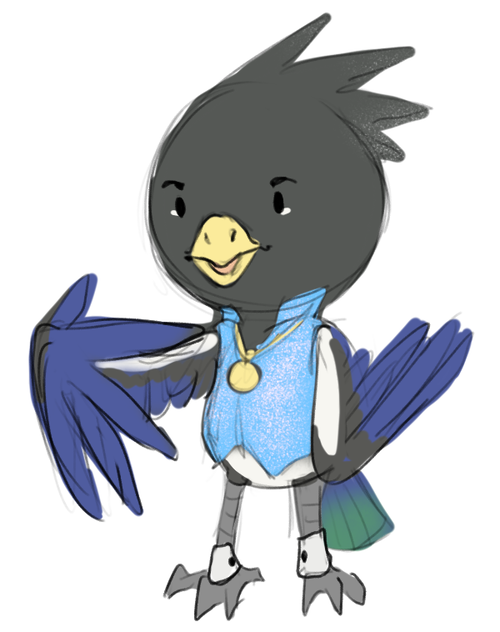
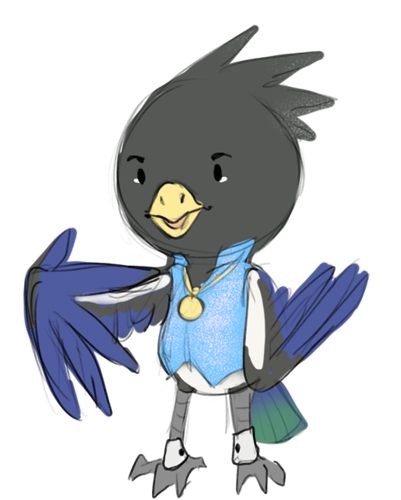
Fixed image scaling in stats/inn. Changed village

Changed region(s): [[0.0599, 0.0, 0.9576, 1.0]]

diff --git a/navigation_gl.py b/navigation_gl.py
@@ -34,6 +34,7 @@ class MainGame():
         self.color_active = "RED"
         self.clock = pygame.time.Clock()
         pygame.mixer.init()
+        self.boosted = 0
 
     def start_screen(self):
         #### SETUP ####
@@ -447,30 +448,39 @@ class MainGame():
             # Boost Party   || Save
             #               || Venture Out
         elif self.progress == 2:
-            options = ["Inn", "Smithy", "inn", "blacksmith", "Boost Party", "Save", "party_debug", "save", "Venture Out", "leave",]
+            options = ["Inn", "Smithy", "inn", "blacksmith", "Haberdashery", "Save", "haberdashery", "save", "Venture Out", "leave",]
             choice = self.town_options(options)
             # Add all current characters and then boost them to 9999
             if choice == "party_debug":
-                # give party of MC, Bear, Radish, Grapefart, lvl9999
-                self.party = boost_party()
-                # add chars to rom list and name list
-                self.rom_characters[2] = self.party[2]
-                self.rom_characters[3] = self.party[3]
-                self.character_names[2] = "Radish"
-                self.character_names[3] = "Grapefart"
+                if self.boosted == 1:
+                    self.user_text = [[[None, "Party has already been boosted."], [None, "[Returning to town.]"]]]
+                    self.advance = 0
+                else:
+                    # give party of MC, Bear, Radish, Grapefart, lvl9999
+                    self.party = boost_party()
+                    # add chars to rom list and name list
+                    self.rom_characters[2] = self.party[2]
+                    self.rom_characters[3] = self.party[3]
+                    self.character_names[2] = "Radish"
+                    self.character_names[3] = "Grapefart"
 
-                # generate 2 npc characters, add to npc and name lists
-                self.npc_characters[2] = add_char("dane")
-                self.npc_characters[3] = add_char("rayna")
-                self.npc_names[2] = "Dane"
-                self.npc_names[3] = "Rayna"
-                
-                # return confirm text
-                self.user_text = [[[None, "Added party members."], [None, "[Returning to town.]"]]]
-                self.advance = 0
+                    # generate 2 npc characters, add to npc and name lists
+                    self.npc_characters[2] = add_char("dane")
+                    self.npc_characters[3] = add_char("rayna")
+                    self.npc_names[2] = "Dane"
+                    self.npc_names[3] = "Rayna"
+                    
+                    # return confirm text
+                    self.user_text = [[[None, "Added party members."], [None, "[Returning to town.]"]]]
+                    self.advance = 0
+                    self.boosted = 1
             # No blacksmith to run yet
             if choice == "blacksmith":
                 self.user_text = [[[None, "There is no one to run the blacksmith, so it remains closed."], [None, "[Returning to town.]"]]]
+                self.advance = 0
+
+            if choice == "haberdashery":
+                self.user_text = [[[None, "There is no one to run the accessories shop, so it remains closed."], [None, "[Returning to town.]"]]]
                 self.advance = 0
             
             # Inn menu loads because Henrietta is retrieved by prog2
@@ -534,6 +544,7 @@ class MainGame():
         bot_left_rect = pygame.Rect(width-1550,height-250,700,50)
         bot_right_rect = pygame.Rect(width-750,height-250,700,50)
         leave_rect = pygame.Rect(width-750,height-150,700,50)
+        debug_rect = pygame.Rect(width-500, height-75, 400, 50)
 
         while True:
             # pick background every loop because otherwise moving from stats screen won't return background to Habbitt
@@ -548,6 +559,7 @@ class MainGame():
             color_bot_right = self.color_passive
             color_leave = self.color_passive
             color_party = self.color_passive
+            color_boost = self.color_passive
 
             # Handle events
             for event in pygame.event.get():
@@ -565,6 +577,8 @@ class MainGame():
                         return target_leave
                     if party_rect.collidepoint(event.pos):
                         self.stats_menu()
+                    if debug_rect.collidepoint(event.pos):
+                        return "party_debug"
 
             # Turn boxes/text backgrounds red if moused over
             if top_left_rect.collidepoint(pygame.mouse.get_pos()):
@@ -579,12 +593,15 @@ class MainGame():
                 color_leave = self.color_active
             if party_rect.collidepoint(pygame.mouse.get_pos()):
                 color_party = self.color_active
+            if debug_rect.collidepoint(pygame.mouse.get_pos()):
+                color_boost = self.color_active
                 
             # render text on buttons and draw rectangles
             gl_text_name(self.font, color_top_left, cgls(width-1550, width), cgls(width-850, width), cgls(height-550, height), cgls(height-600, height), text_top_left, 1, 1.115)
             gl_text_name(self.font, color_top_right, cgls(width-750, width), cgls(width-50, width), cgls(height-550, height), cgls(height-600, height), text_top_right, 1, 1.115)
             gl_text_name(self.font, color_bot_left, cgls(width-1550, width), cgls(width-850, width), cgls(height-650, height), cgls(height-700, height), text_bot_left, 1, 1.17)
             gl_text_name(self.font, color_bot_right, cgls(width-750, width), cgls(width-50, width), cgls(height-650, height), cgls(height-700, height), text_bot_right, 1, 1.17)
+            gl_text_name(self.font, color_boost, cgls(width-100, width), cgls(width-500, width), cgls(height-825, height), cgls(height-875, height), "Boost Party", 1, 2)
             gl_text_name(self.font, color_leave, cgls(width-750, width), cgls(width-50, width), cgls(height-750, height), cgls(height-800, height), text_leave, 1, 1.31)
             gl_text_name(self.font, color_party, cgls(width-300, width), cgls(width-0, width), cgls(height-50, height), cgls(height, height), "Party", 1, .99)
 
@@ -654,13 +671,9 @@ class MainGame():
 
             # Party member portrait
             image1 = party_member_pics[current_member_left]
-            if char_name_left == "Radish":
-                blit_image((width, height), width-1540, height/2/2-50, image1, 1,1,1)
-            elif char_name_left in ["Grapefart", "Henrietta", "N. Steen"]:
+            if char_name_left in ["Henrietta", "N. Steen"]:
                 blit_image((width, height), width-1470, height/2/2-50, image1, 1,1,1)
-            elif char_name_left in ["Dane", "Rayna"]:
-                blit_image((width, height), width-1430, height/2/2-50, image1, 1,1,1)
-            elif char_name_left == "Rayna":    
+            elif char_name_left in ["Dane", "Rayna", self.main_character.get_name(), "Radish", "Grapefart"]:
                 blit_image((width, height), width-1430, height/2/2-50, image1, 1,1,1)
             else:    
                 blit_image((width, height), width-1380, height/2/2-50, image1, 1,1,1)
@@ -670,11 +683,9 @@ class MainGame():
 
             # Party member portrait
             image2 = party_member_pics[current_member_right]
-            if char_name_right == "Radish":
-                blit_image((width, height), width-700, height/2/2-50, image2, 1,1,1)
-            elif char_name_right in ["Grapefart", "Henrietta", "N. Steen"]:
+            if char_name_right in ["Henrietta", "N. Steen"]:
                 blit_image((width, height), width-630, height/2/2-50, image2, 1,1,1)
-            elif char_name_right in ["Dane", "Rayna"]:
+            elif char_name_right in ["Dane", "Rayna", self.main_character.get_name(), "Radish", "Grapefart"]:
                 blit_image((width, height), width-590, height/2/2-50, image2, 1,1,1)
             else:    
                 blit_image((width, height), width-540, height/2/2-50, image2, 1,1,1)
@@ -950,7 +961,7 @@ class MainGame():
                         char.set_portrait(poss_images[curr_image] + "_port_100.png")
                         char.set_portrait_dungeon(poss_images[curr_image])
                         char.set_portrait_dialog(poss_images[curr_image] + "_portrait")
-                        char.set_stats_picture(poss_images[curr_image] + "_port")
+                        char.set_stats_picture(poss_images[curr_image] + "_port_stats")
                         self.char_name = input_text[:-1]
                         return char
         
@@ -1057,13 +1068,9 @@ class MainGame():
 
             # Party member portrait
             image1 = party_member_pics[current_member]
-            if char_name == "Radish":
-                blit_image((width, height), width-1540, height/2/2-50, image1, 1,1,1)
-            elif char_name in ["Grapefart", "Henrietta", "N. Steen"]:
+            if char_name in ["Henrietta", "N. Steen"]:
                 blit_image((width, height), width-1470, height/2/2-50, image1, 1,1,1)
-            elif char_name in ["Dane", "Rayna"]:
-                blit_image((width, height), width-1430, height/2/2-50, image1, 1,1,1)
-            elif char_name == "Rayna":    
+            elif char_name in ["Dane", "Rayna", "Radish", "Grapefart", self.main_character.get_name()]:
                 blit_image((width, height), width-1430, height/2/2-50, image1, 1,1,1)
             else:    
                 blit_image((width, height), width-1380, height/2/2-50, image1, 1,1,1)
@@ -1234,11 +1241,9 @@ class MainGame():
                         elif switcher == 2:
                             switcher = 0
                     if party_rect.collidepoint(event.pos):
-                        if len(self.party) > 4:
-                            pass
-                        elif characters[current_member] in self.party:
+                        if characters[current_member] in self.party:
                             self.party.remove(characters[current_member])
-                        else:
+                        elif len(self.party) < 4:
                             self.party.append(characters[current_member])
 
             #glBegin(GL_QUADS)
